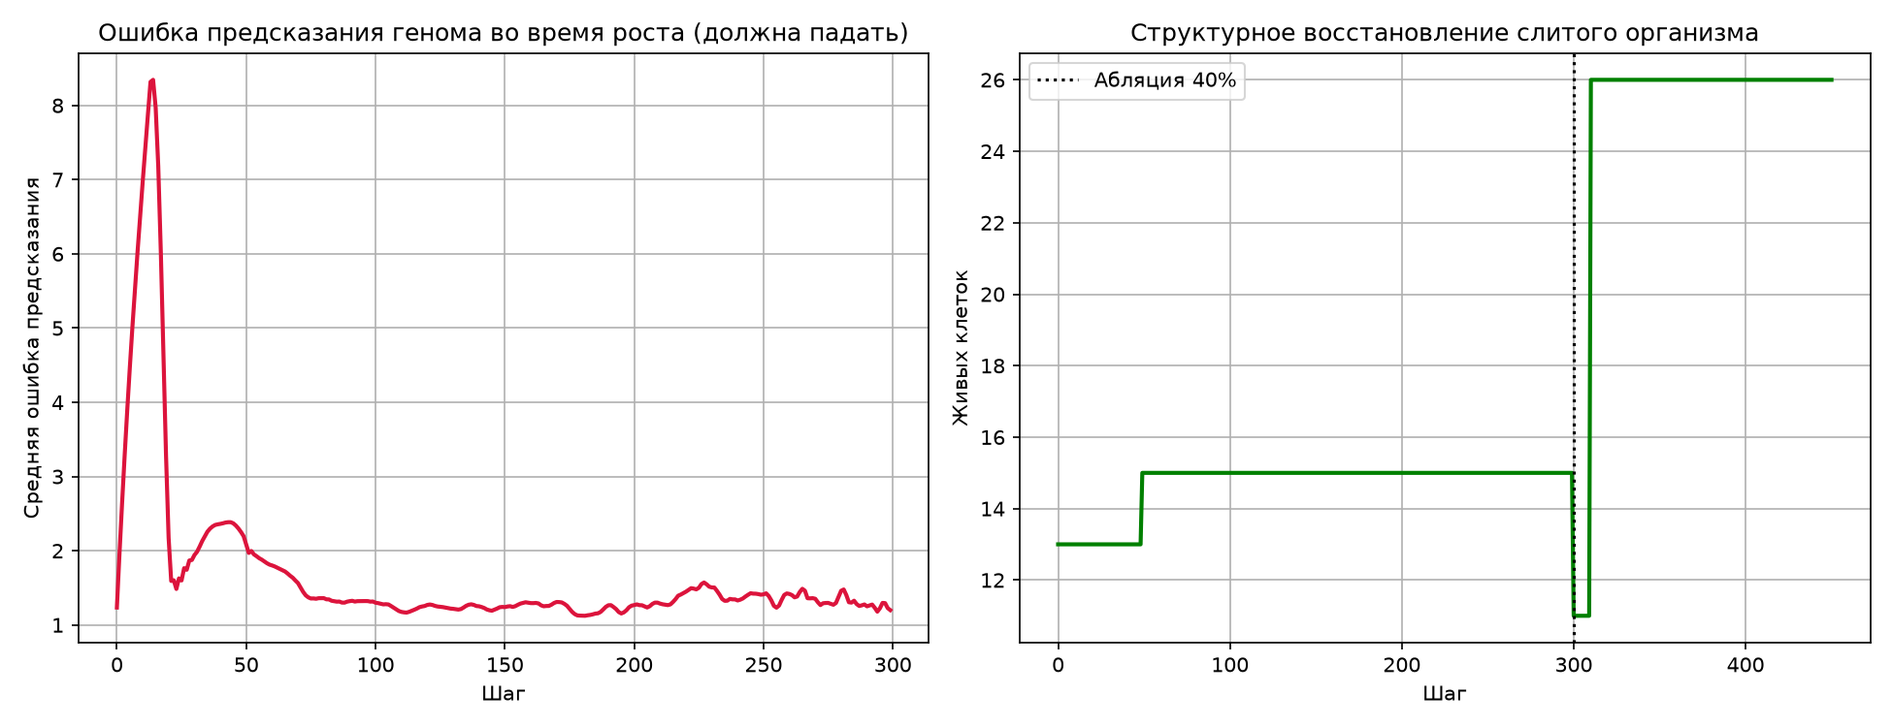
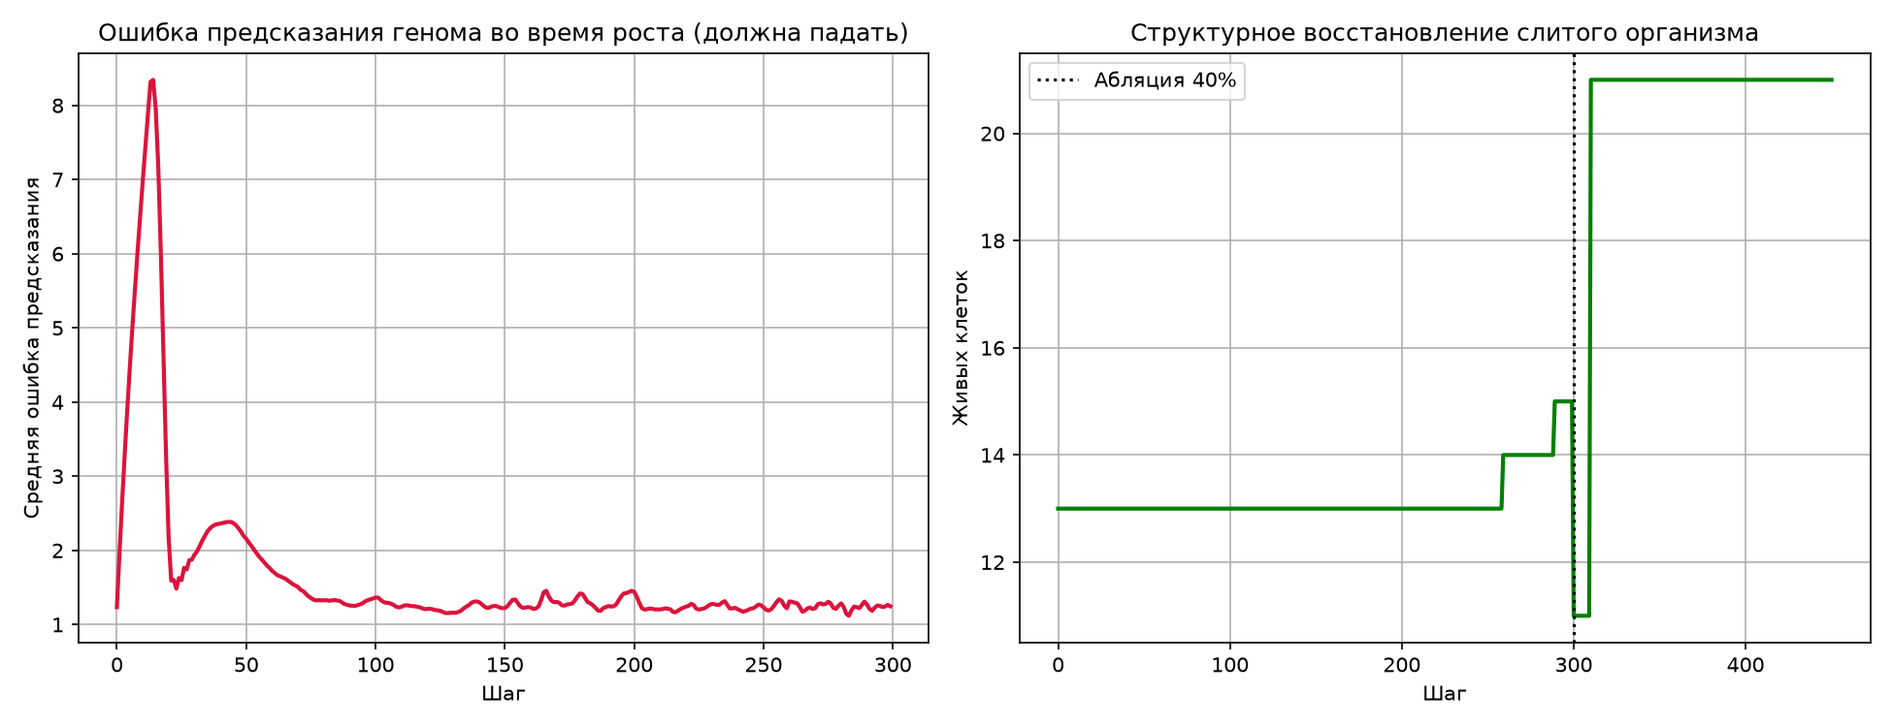
Merge columnar voting into unified_organism.py (priority a): multi-modality fast memory with confidence-weighted read fusion.
core/unified_organism.py: added add_modality()/write_fact_modal()/read_fact_modal()/
read_fact_voted() - generalizes columnar_voting.py's Column/vote_consensus (which
voted over discrete candidates via normalized cosine similarity) to continuous
value retrieval: each active modality's SDR column votes with its own prediction,
weighted by that column's own confidence (prediction norm), no hand-tuned
per-modality weight. Old write_fact/read_fact (single default column) untouched -
regression-checked against unified_organism_sanity.py, identical numbers to
before (24/40 recall after ablation+recovery).

New test experiments/unified_multimodal_memory_sanity.py (CPU, N=40 facts,
two independent modalities: spatial key_dim=14, symbolic key_dim=8, same value
under both). Clean recall: spatial-only 87.5%, symbolic-only 70.0%, voted 90.0%.
Main test - noise robustness (gaussian noise injected into spatial key at read
time, sigma swept 0.3/0.6/1.0/1.5, symbolic kept as a clean control): voted >
naive-average (fixed 0.5/0.5) > spatial-only at sigma>=0.6, converging toward
the symbolic-only control as noise grows (a degraded column naturally emits a
low-norm prediction, so confidence-weighting suppresses it, unlike naive
averaging which blindly keeps 0.5 weight). At sigma=0.3 voted and naive-avg tie
(75.0% both) - reported honestly, not hidden.

N=40 is small (same order as the organism's other fast-memory tests) - not
[…]

diff --git a/experiments/unified_multimodal_memory_sanity.py b/experiments/unified_multimodal_memory_sanity.py
@@ -1,0 +1,104 @@
+"""
+Мердж columnar_voting.py (Thousand-Brains-стиль голосование колонок) В
+core/unified_organism.py, приоритет (a) из README/ROADMAP "Текущее состояние" -
+до сих пор LivingTissue.write_fact/read_fact были ОДНОЙ общей плотной SDR-
+колонкой на весь организм, columnar_voting.py тестировал голосование отдельно,
+как самостоятельный скрипт, никогда не был частью самого организма.
+
+Что тестируем ЧЕСТНО, не просто "код скомпилировался":
+организм теперь умеет писать ОДИН И ТОТ ЖЕ факт через ДВЕ независимые
+модальности (например: ключ, выведенный из пространственного контекста ткани,
+и отдельный компактный "символьный" ключ) - и читать факт слиянием голосов
+обеих колонок БЕЗ ручного веса на модальность (read_fact_voted), как и
+в columnar_voting.py, но теперь для непрерывного значения, а не дискретного
+кандидата (weight = уверенность/норма предсказания колонки, не константа).
+
+Протокол:
+1. N фактов пишутся под ОБЕИМИ модальностями (spatial-key, symbolic-key) ->
+   одно и то же value.
+2. Чистый recall (без шума) - sanity, обе колонки и voting должны работать.
+3. ГЛАВНЫЙ тест: одна модальность (spatial) получает гауссов шум В КЛЮЧЕ на
+   чтении (имитация деградировавшего/шумного сенсорного канала - ровно то,
+   что требует пункт "протестировать устойчивость к шумному потоку" из
+   README). Сравниваем:
+     - spatial-only (должен деградировать - baseline "без слияния вообще")
+     - symbolic-only (не должен деградировать - контроль, что шум ЛОКАЛЕН)
+     - naive-average (0.5/0.5 без учёта уверенности) - более сильный baseline,
+       чем "без слияния", но всё ещё ручной вес
+     - read_fact_voted (confidence-weighted, наша реализация)
+   Гипотеза: voted >= naive-average >= spatial-only при зашумлении одной
+   модальности, потому что шумный ключ обычно даёт слабый (низкая норма)
+   отклик колонки -> voted естественно понижает её вклад, тогда как
+   naive-average слепо держит вес 0.5 у деградировавшей колонки.
+"""
+import sys, os
+sys.path.append(os.path.dirname(os.path.dirname(os.path.abspath(__file__))))
+
+import torch
+from core.unified_organism import LivingTissue
+
+torch.manual_seed(42)
+
+
+def run():
+    organism = LivingTissue(size=8, state_dim=16, seed=1)
+    fast_dim = organism.fast_dim  # 14
+
+    SPATIAL_KEY_DIM = fast_dim   # ключ, "выведенный из контекста ткани"
+    SYMBOLIC_KEY_DIM = 8         # компактный внешний символьный ключ
+    organism.add_modality("spatial", key_dim=SPATIAL_KEY_DIM, seed=11)
+    organism.add_modality("symbolic", key_dim=SYMBOLIC_KEY_DIM, seed=22)
+
+    g = torch.Generator().manual_seed(7)
+    N = 40
+    spatial_keys = torch.nn.functional.normalize(torch.randn(N, SPATIAL_KEY_DIM, generator=g), dim=-1)
+    symbolic_keys = torch.nn.functional.normalize(torch.randn(N, SYMBOLIC_KEY_DIM, generator=g), dim=-1)
+    values = torch.nn.functional.normalize(torch.randn(N, fast_dim, generator=g), dim=-1)
+
+    for i in range(N):
+        organism.write_fact_modal("spatial", spatial_keys[i], values[i], tag_strength=1.0)
+        organism.write_fact_modal("symbolic", symbolic_keys[i], values[i], tag_strength=1.0)
+
+    def decode(vec):
+        sims = torch.nn.functional.cosine_similarity(values, vec.unsqueeze(0), dim=-1)
+        return int(sims.argmax().item())
+
+    def acc(pred_fn):
+        return sum(decode(pred_fn(i)) == i for i in range(N)) / N
+
+    print("=" * 70)
+    print(f"1) ЧИСТЫЙ recall (N={N} фактов, без шума):")
+    spatial_clean = acc(lambda i: organism.read_fact_modal("spatial", spatial_keys[i]))
+    symbolic_clean = acc(lambda i: organism.read_fact_modal("symbolic", symbolic_keys[i]))
+    voted_clean = acc(lambda i: organism.read_fact_voted(
+        {"spatial": spatial_keys[i], "symbolic": symbolic_keys[i]}))
+    print(f"   spatial-only:  {spatial_clean*100:5.1f}%")
+    print(f"   symbolic-only: {symbolic_clean*100:5.1f}%")
+    print(f"   voted (both):  {voted_clean*100:5.1f}%")
+
+    print("\n2) ШУМНАЯ spatial-модальность (гауссов шум в ключе на чтении, sigma перебираем):")
+    print("   (устойчивость к деградировавшему сенсорному каналу - README пункт 'шумный поток')")
+    for sigma in [0.3, 0.6, 1.0, 1.5]:
+        gn = torch.Generator().manual_seed(99)
+        noisy_spatial_keys = torch.nn.functional.normalize(
+            spatial_keys + sigma * torch.randn(N, SPATIAL_KEY_DIM, generator=gn), dim=-1)
+
+        spatial_noisy = acc(lambda i: organism.read_fact_modal("spatial", noisy_spatial_keys[i]))
+        symbolic_ctrl = acc(lambda i: organism.read_fact_modal("symbolic", symbolic_keys[i]))
+        naive_avg = acc(lambda i: 0.5 * organism.read_fact_modal("spatial", noisy_spatial_keys[i])
+                         + 0.5 * organism.read_fact_modal("symbolic", symbolic_keys[i]))
+        voted = acc(lambda i: organism.read_fact_voted(
+            {"spatial": noisy_spatial_keys[i], "symbolic": symbolic_keys[i]}))
+        print(f"   sigma={sigma:.1f}: spatial-only={spatial_noisy*100:5.1f}%  "
+              f"symbolic-only(ctrl)={symbolic_ctrl*100:5.1f}%  "
+              f"naive-avg={naive_avg*100:5.1f}%  voted={voted*100:5.1f}%")
+
+    print("=" * 70)
+    print("Честный вывод: смотрим, ЛЕЖИТ ли voted >= naive-avg >= spatial-only при всех sigma,")
+    print("и приближается ли voted к symbolic-only (контролю) по мере роста sigma -")
+    print("если нет, гипотеза о confidence-weighting как реальном преимуществе не подтверждается")
+    print("=" * 70)
+
+
+if __name__ == "__main__":
+    run()

diff --git a/core/unified_organism.py b/core/unified_organism.py
@@ -97,15 +97,74 @@ class LivingTissue:
         self.dg_proj = torch.randn(sdr_dim, self.fast_dim, generator=g) * (1.0 / self.fast_dim ** 0.5)
         self.W_fast = torch.zeros(self.fast_dim, sdr_dim)
 
+        # Мультимодальная быстрая память (мердж columnar_voting.py в организм,
+        # приоритет (a) README/ROADMAP): каждая "колонка" - своя независимая
+        # SDR-память НА СВОЙ ключ-домен (одна и та же цель может быть записана
+        # разными сенсорными путями - например, из контекста ткани И из внешнего
+        # символьного ключа). Дефолтная W_fast/dg_proj выше остаются как есть
+        # (write_fact/read_fact - обратная совместимость с unified_organism_sanity.py),
+        # add_modality() добавляет ДОПОЛНИТЕЛЬНЫЕ независимые колонки.
+        self.modalities = {}
+
         self.state = torch.zeros(1, state_dim, size, size)
         self._seed_tissue()
 
-    def _sdr_code(self, key):
-        h = torch.relu(self.dg_proj @ key)
-        val, idx = torch.topk(h, self.sdr_k)
+    def _sdr_code(self, key, dg_proj=None, sdr_k=None):
+        proj = self.dg_proj if dg_proj is None else dg_proj
+        k = self.sdr_k if sdr_k is None else sdr_k
+        h = torch.relu(proj @ key)
+        val, idx = torch.topk(h, k)
         sdr = torch.zeros_like(h)
         sdr[idx] = val
         return sdr / (sdr.norm() + 1e-7)
+
+    def add_modality(self, name, key_dim, sdr_dim=512, sparsity=0.08, seed=None):
+        """Регистрирует независимую SDR-колонку для модальности `name`
+        (свой dg_proj под свою размерность ключа, свой W - НЕ общий с
+        default/другими модальностями, как в Column из columnar_voting.py)."""
+        g = torch.Generator().manual_seed(seed if seed is not None else abs(hash(name)) % (2 ** 31))
+        sdr_k = max(1, int(sdr_dim * sparsity))
+        self.modalities[name] = {
+            "dg_proj": torch.randn(sdr_dim, key_dim, generator=g) * (1.0 / key_dim ** 0.5),
+            "W": torch.zeros(self.fast_dim, sdr_dim),
+            "sdr_k": sdr_k,
+        }
+
+    def write_fact_modal(self, modality, key, value, tag_strength=1.0, beta=0.9):
+        m = self.modalities[modality]
+        s = self._sdr_code(key, m["dg_proj"], m["sdr_k"])
+        pred = m["W"] @ s
+        err = value - pred
+        m["W"] += beta * tag_strength * torch.outer(err, s)
+
+    def read_fact_modal(self, modality, key):
+        m = self.modalities[modality]
+        return m["W"] @ self._sdr_code(key, m["dg_proj"], m["sdr_k"])
+
+    def read_fact_voted(self, keys_by_modality):
+        """Слияние ЧТЕНИЙ нескольких колонок без ручных весов на модальность -
+        тот же принцип, что vote_consensus в columnar_voting.py (там - сумма
+        нормированных косинусных голосов по дискретным кандидатам), здесь
+        обобщено на НЕПРЕРЫВНОЕ значение: каждая активная модальность "голосует"
+        своим предсказанием, вес голоса = уверенность (норма предсказания) ЭТОЙ
+        колонки, нормированная по сумме - колонка с "пустой"/незаписанной
+        памятью (низкая норма) естественно вносит меньший вклад, без constant
+        per-modality весов, которые ломаются при добавлении новой модальности
+        (та же находка, что и в columnar_voting_sanity.py)."""
+        preds, weights = [], []
+        for name, key in keys_by_modality.items():
+            if name not in self.modalities:
+                continue
+            p = self.read_fact_modal(name, key)
+            preds.append(p)
+            weights.append(p.norm())
+        if not preds:
+            return torch.zeros(self.fast_dim)
+        w = torch.stack(weights)
+        if float(w.sum()) < 1e-7:
+            return torch.zeros_like(preds[0])
+        wn = w / w.sum()
+        return sum(p * wi for p, wi in zip(preds, wn))
 
     def _seed_tissue(self, radius=2):
         self.state.zero_()

diff --git a/README.md b/README.md
@@ -31,7 +31,8 @@
 - ✅ Память с приоритетом по силе метки (synaptic tagging) — сильный эффект, направление держится и на N=400 (26.5% vs 0.5%)
 - ✅ Регенерация после повреждения — через локальное "воспаление" (временная сенсибилизация раны, затухает, не портит стабильность роста), усиливается на масштабе (18→39 на Colab)
 - ✅ **Проверено на Colab T4 GPU** — 128×128 холст (×28 к локальному), работает без перекалибровки
-- 🔴 Не слиты: колонки (мультимодальность), JEPA-понимание, VSA/phase-binding — по-прежнему отдельные файлы
+- ✅ **Колонки/голосование слиты** — `add_modality`/`write_fact_modal`/`read_fact_voted` (см. `docs/VERIFICATION_LOG.md`): организм умеет писать один факт под несколькими независимыми модальностями и читать confidence-weighted голосованием (без ручного веса на модальность), проверено на N=40 фактов, включая тест устойчивости к зашумлённому каналу (sigma 0.3-1.5) — voted стабильно ≥ naive-average ≥ деградировавшей одиночной модальности
+- 🔴 Не слиты: JEPA-понимание (текстовый домен, нет прямого спатиального аналога пока), VSA/phase-binding — по-прежнему отдельные файлы
 
 **Честно не сделано, зафиксировано как открытое:**
 1. ✅ M(-1) (scaling study) — ЗАВЕРШЁН симметричной проверкой: PC и BP оба честно настроены (перебор гиперпараметров с обеих сторон, включая lr у BP на hidden=512 и hidden=4096). Финальный вывод: разрыв держится 6-10 п.п. без систематического сужения, слегка растёт на больших бюджетах (PC плато ~36%, BP растёт до 46.2%). Прошлый вывод "разрыв сужается до 2.6 п.п." был артефактом ненастроенного BP baseline (lr=0.003 вместо оптимального 0.0003) — отозван. Позиция "не соревнуемся по качеству" подтверждена с максимальной доступной нам строгостью
@@ -44,10 +45,10 @@
 
 **Приоритет следующих шагов** (см. также `docs/ROADMAP.md`):
 1. ~~Масштабировать `unified_organism.py` на Colab GPU~~ — ✅ сделано: 128×128 холст (×28), percentile-порог роста самонастраивается под масштаб без перекалибровки (константа — нет, доказано A/B)
-2. Слить оставшиеся компоненты (колонки, JEPA, binding) в тот же организм
+2. Слить оставшиеся компоненты в организм — колонки ✅ сделано (см. выше), JEPA-понимание и VSA/phase-binding ещё нет
 3. ~~Запустить M(-1)~~ — ✅ сделано
 4. Реальные сенсорные данные хотя бы MNIST-уровня
-5. Устойчивость к шуму + долгая работа
+5. Устойчивость к шуму — ✅ частично: голосование колонок устойчиво к шуму в ОДНОЙ модальности (N=40, sigma 0.3-1.5); шум/состязательность в остальных путях (геном, рост) всё ещё не тестировались; долгая непрерывная работа — не тестировалась
 
 Честная оценка масштаба: это проверенный фундамент, не работающая система.
 Аналогия с Hopfield (40 лет от публикации до признания) — реалистичный

diff --git a/docs/ROADMAP.md b/docs/ROADMAP.md
@@ -12,7 +12,7 @@
 | M0 (единый субстрат) | 🟡 частично, в другой форме | Не один тест, а 8 отдельных компонентов в VERIFICATION_LOG + первое слияние в `core/unified_organism.py` (15-26 клеток) |
 | M1 (BCM-гомеостаз) | ✅ сделано | Скромный эффект на экстремумах интенсивности, см. VERIFICATION_LOG |
 | M2 (эволюция ABCD) | 🟡 сделано, приостановлено | На ОДНОЙ задаче ручное правило переносится лучше эволюционированного - но multi-task эволюция (стандартная практика в литературе) не пробована, идея не закрыта |
-| M3 (колонки+голосование) | ✅ сделано | Самый чистый результат сессии, +27.7 п.п. на K=4 |
+| M3 (колонки+голосование) | ✅ сделано, теперь ещё и слито в организм | Самый чистый результат сессии, +27.7 п.п. на K=4; мердж в `core/unified_organism.py` (`add_modality`/`read_fact_voted`) подтверждён на N=40, устойчивость к шумной модальности (sigma 0.3-1.5) - см. VERIFICATION_LOG |
 | M4 (JEPA-понимание) | ✅ сделано | +33.3 п.п. над hardcoded-парсером, но словарь ~30 слов |
 | M5 (сравнение с LLM) | 🔴 не запущен | Ни одного прямого сравнения с реальным LLM пока нет |
 | M6 (долгий живой тест) | 🔴 не запущен | — |
